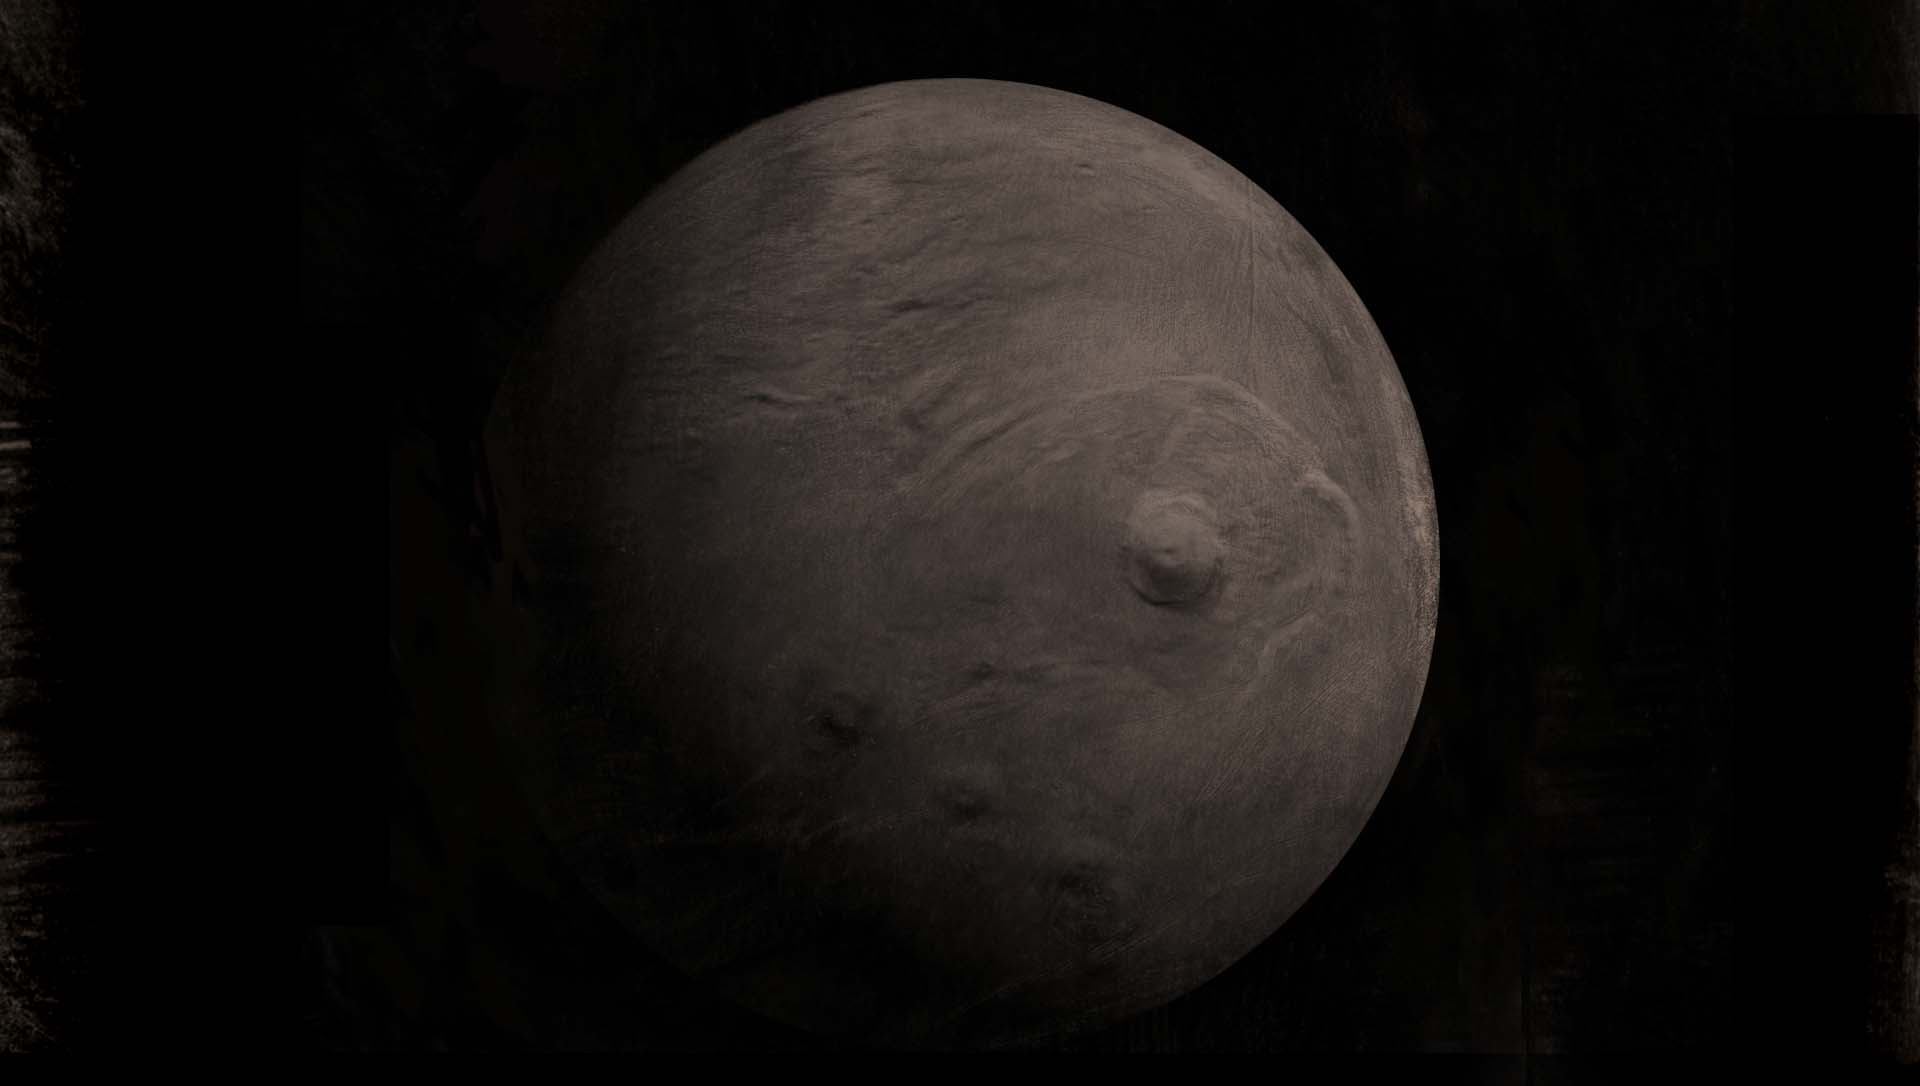
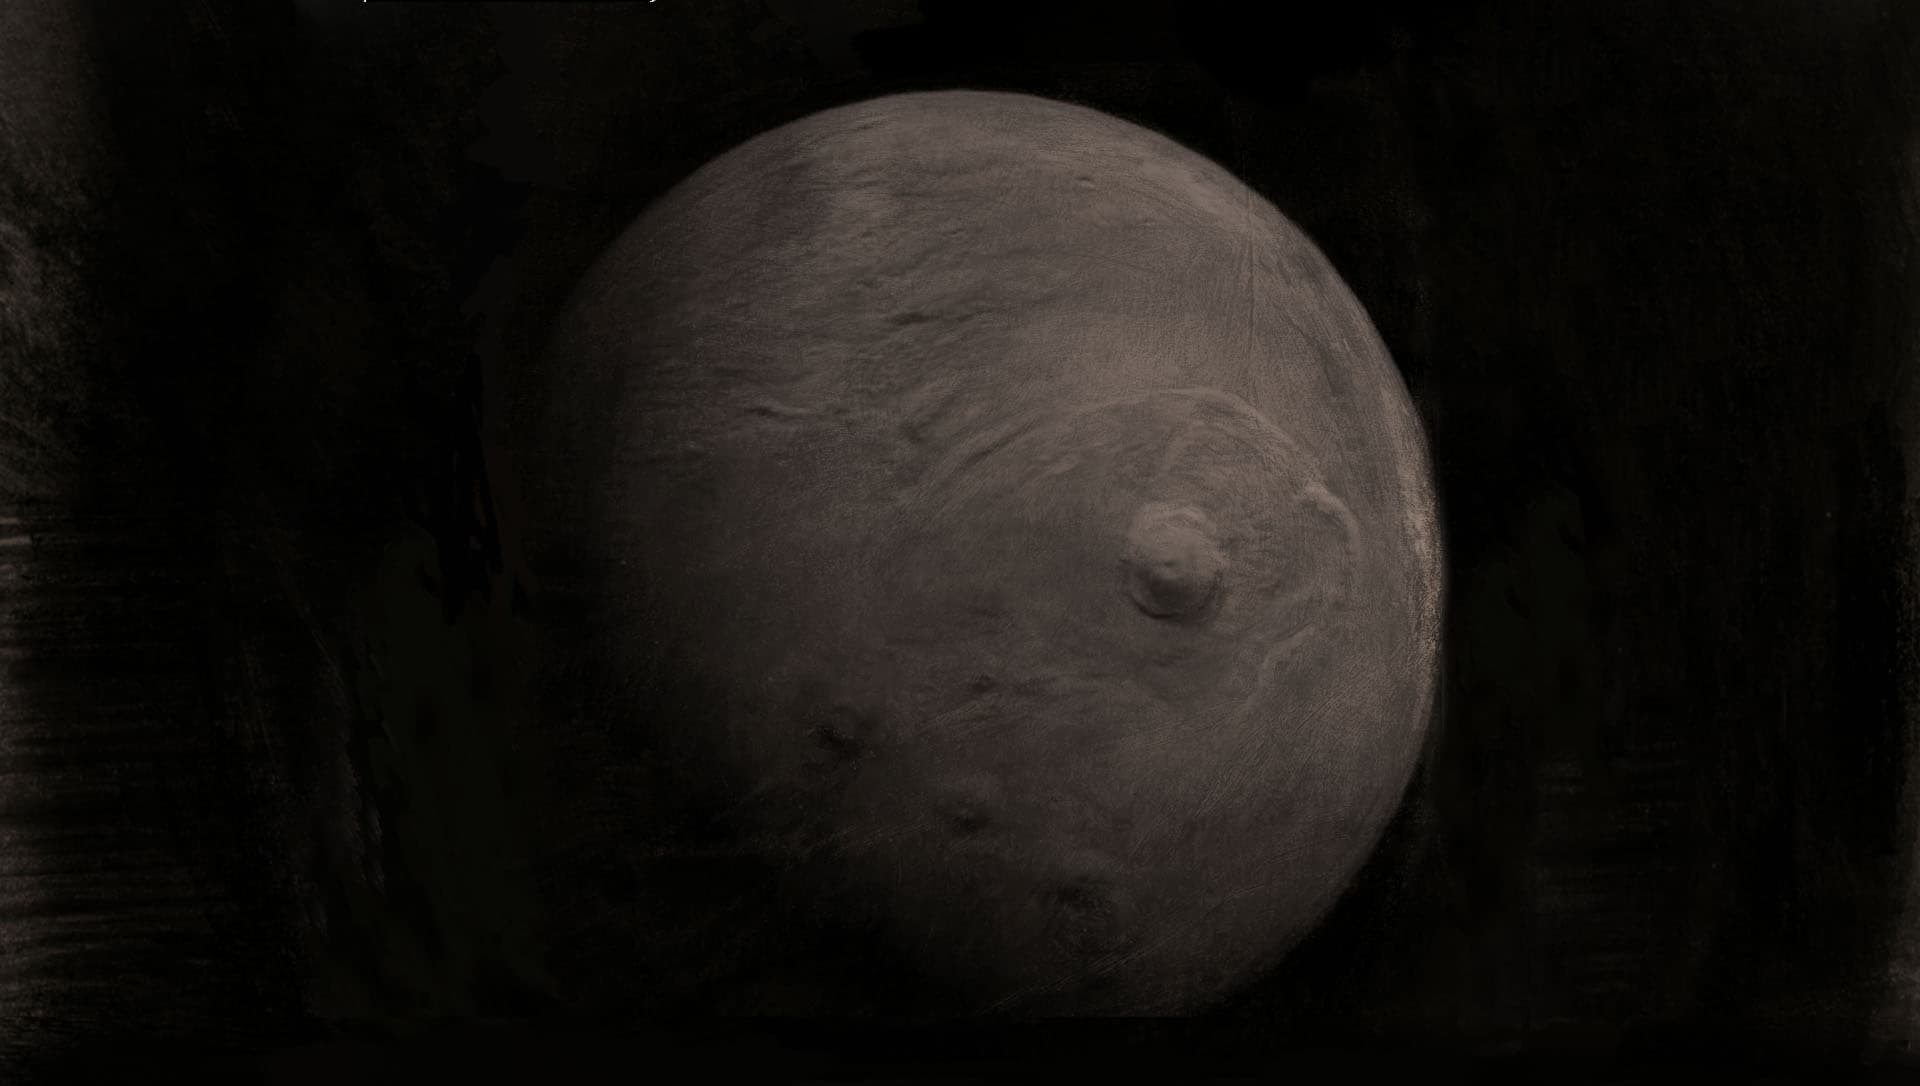
Add new backgrounds & fix styles bug in timeline

diff --git a/components/explorers/ExplorerTimeLine.vue b/components/explorers/ExplorerTimeLine.vue
@@ -23,9 +23,9 @@
           </div>
         </tick>
       </div>
-      <!-- <div class="btn_scroll">
+      <!--
         <button-next-screen />
-      </div> -->
+       -->
     </div>
   </div>
 </template>
@@ -123,48 +123,46 @@ export default Vue.extend({
   pointer-events: none;
   .explorer_timeline_holder {
     @apply w-full flex;
-
-  }
-}
-.timeline {
-  @apply relative w-full mr-8;
-  pointer-events: none;
-  .timeline_line {
-    @apply absolute;
-    @apply h-1 w-full bg-white opacity-60 rounded;
-    top: -2px;
-  }
-  .tick_area {
-    transform: translate(50%, -50%);
-    &:hover {
-      .tick_item .timeline_item_tooltip {
-        visibility: visible;
-      }
-    }
-    .tick_item {
-      &.tick_item_active {
-        .timeline_item_tooltip {
-          visibility: visible;
-        }
-      }
-      .timeline_item_tooltip {
-        @apply px-2 py-1 text-sm rounded-full bg-white text-black font-sans;
+    .timeline {
+      @apply relative w-full mr-8;
+      pointer-events: none;
+      .timeline_line {
         @apply absolute;
-        bottom: calc(100% + 0.75rem);
-        transform: translateX(-50%);
-        visibility: hidden;
+        @apply h-1 w-full bg-white opacity-60 rounded;
+        top: -2px;
+      }
+      .tick_area {
+        transform: translate(50%, -50%);
+        &:hover {
+          .tick_item .timeline_item_tooltip {
+            visibility: visible;
+          }
+        }
+        .tick_item {
+          &.tick_item_active {
+            .timeline_item_tooltip {
+              visibility: visible;
+            }
+          }
+          .timeline_item_tooltip {
+            @apply px-2 py-1 text-sm rounded-full bg-white text-black font-sans;
+            @apply absolute;
+            bottom: calc(100% + 0.75rem);
+            transform: translateX(-50%);
+            visibility: hidden;
 
-        &::after {
-          content: ' ';
-          width: 20px;
-          height: 20px;
-          transform: translate(-50%, -50%) rotate(45deg);
-          @apply bg-white shadow-sm;
+            &::after {
+              content: ' ';
+              width: 20px;
+              height: 20px;
+              transform: translate(-50%, -50%) rotate(45deg);
+              @apply bg-white shadow-sm;
+            }
+          }
         }
       }
     }
   }
-
-
 }
+
 </style>

diff --git a/components/mixins/AnimationType_02.ts b/components/mixins/AnimationType_02.ts
@@ -23,7 +23,7 @@ export default Vue.extend({
                 visibility: "hidden"
             })
             anime.set(background, {
-                filter: "filter: hue-rotate(185deg) saturate(0.2)"
+                filter: "filter: saturate(0.2)"
             })
             this.animation = anime.timeline({
                 delay: 200,
@@ -54,7 +54,7 @@ export default Vue.extend({
                 scale: [1, 2],
                 duration: duration * 100,
                 update(anim) {
-                    background!.style.filter = `hue-rotate(185deg) saturate(${0.2 + anim.progress / 90})`
+                    background!.style.filter = `saturate(${0.2 + anim.progress / 90})`
                 }
             }, "-=" + duration * 100)
 

diff --git a/assets/styles/not_scoped/ticks.css b/assets/styles/not_scoped/ticks.css
@@ -1,4 +1,4 @@
-.tick_area {
+/* .tick_area {
   transform: translate(50%, -50%);
   &:hover {
     .timeline_item_tooltip {
@@ -27,4 +27,4 @@
       @apply bg-white shadow-sm;
     }
   }
-}
+} */
